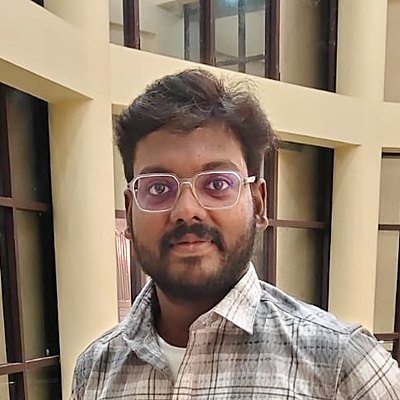
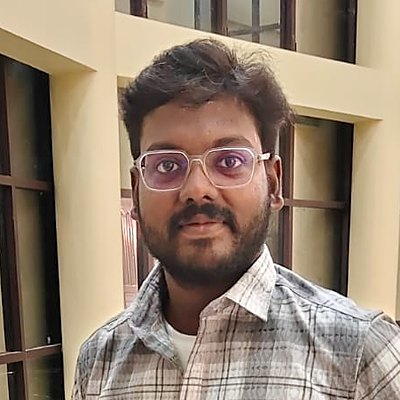
Re-centre Sivalingam's and Durai Praveen's photos; add TODO.md
Crops now centred on the detected face. TODO.md lists the open items to check later.

Claude-Session: https://claude.ai/code/session_012xGooYthkxzBd4MHZxLafW

diff --git a/index.html b/index.html
@@ -13,7 +13,7 @@
 <link rel="preconnect" href="https://fonts.googleapis.com">
 <link rel="preconnect" href="https://fonts.gstatic.com" crossorigin>
 <link href="https://fonts.googleapis.com/css2?family=Noto+Sans+Tamil:wght@400;600;700;800&display=swap" rel="stylesheet">
-<link rel="stylesheet" href="assets/css/style.css?v=20261124a">
+<link rel="stylesheet" href="assets/css/style.css?v=20261124b">
 </head>
 <body data-page="home">
 
@@ -110,9 +110,9 @@
   </div>
 </footer>
 
-<script src="assets/js/config.js?v=20261124a"></script>
-<script src="assets/js/panchang.js?v=20261124a"></script>
-<script src="assets/js/decor.js?v=20261124a"></script>
-<script src="assets/js/app.js?v=20261124a"></script>
+<script src="assets/js/config.js?v=20261124b"></script>
+<script src="assets/js/panchang.js?v=20261124b"></script>
+<script src="assets/js/decor.js?v=20261124b"></script>
+<script src="assets/js/app.js?v=20261124b"></script>
 </body>
 </html>

diff --git a/accounts.html b/accounts.html
@@ -10,7 +10,7 @@
 <link rel="preconnect" href="https://fonts.googleapis.com">
 <link rel="preconnect" href="https://fonts.gstatic.com" crossorigin>
 <link href="https://fonts.googleapis.com/css2?family=Noto+Sans+Tamil:wght@400;600;700;800&display=swap" rel="stylesheet">
-<link rel="stylesheet" href="assets/css/style.css?v=20261124a">
+<link rel="stylesheet" href="assets/css/style.css?v=20261124b">
 </head>
 <body data-page="accounts">
 
@@ -60,8 +60,8 @@
   </div>
 </footer>
 
-<script src="assets/js/config.js?v=20261124a"></script>
-<script src="assets/js/decor.js?v=20261124a"></script>
-<script src="assets/js/app.js?v=20261124a"></script>
+<script src="assets/js/config.js?v=20261124b"></script>
+<script src="assets/js/decor.js?v=20261124b"></script>
+<script src="assets/js/app.js?v=20261124b"></script>
 </body>
 </html>

diff --git a/contact.html b/contact.html
@@ -10,7 +10,7 @@
 <link rel="preconnect" href="https://fonts.googleapis.com">
 <link rel="preconnect" href="https://fonts.gstatic.com" crossorigin>
 <link href="https://fonts.googleapis.com/css2?family=Noto+Sans+Tamil:wght@400;600;700;800&display=swap" rel="stylesheet">
-<link rel="stylesheet" href="assets/css/style.css?v=20261124a">
+<link rel="stylesheet" href="assets/css/style.css?v=20261124b">
 </head>
 <body data-page="contact">
 
@@ -78,8 +78,8 @@
   </div>
 </footer>
 
-<script src="assets/js/config.js?v=20261124a"></script>
-<script src="assets/js/decor.js?v=20261124a"></script>
-<script src="assets/js/app.js?v=20261124a"></script>
+<script src="assets/js/config.js?v=20261124b"></script>
+<script src="assets/js/decor.js?v=20261124b"></script>
+<script src="assets/js/app.js?v=20261124b"></script>
 </body>
 </html>

diff --git a/members.html b/members.html
@@ -10,7 +10,7 @@
 <link rel="preconnect" href="https://fonts.googleapis.com">
 <link rel="preconnect" href="https://fonts.gstatic.com" crossorigin>
 <link href="https://fonts.googleapis.com/css2?family=Noto+Sans+Tamil:wght@400;600;700;800&display=swap" rel="stylesheet">
-<link rel="stylesheet" href="assets/css/style.css?v=20261124a">
+<link rel="stylesheet" href="assets/css/style.css?v=20261124b">
 </head>
 <body data-page="members">
 
@@ -56,8 +56,8 @@
   </div>
 </footer>
 
-<script src="assets/js/config.js?v=20261124a"></script>
-<script src="assets/js/decor.js?v=20261124a"></script>
-<script src="assets/js/app.js?v=20261124a"></script>
+<script src="assets/js/config.js?v=20261124b"></script>
+<script src="assets/js/decor.js?v=20261124b"></script>
+<script src="assets/js/app.js?v=20261124b"></script>
 </body>
 </html>

diff --git a/assets/js/config.js b/assets/js/config.js
@@ -18,7 +18,7 @@ window.VI_CONFIG = {
      e.g. photos/VEL-001.jpg. No photo = the member's initials are shown. */
   photoFolder: 'photos/',
   photoExt: '.jpg',
-  photoVersion: 7,          // raise by 1 after replacing a photo, so browsers fetch the new one
+  photoVersion: 8,          // raise by 1 after replacing a photo, so browsers fetch the new one
 
   /* Codes to leave off the members wall, e.g. ['VEL-014'].
      Their payments still count in the accounts. */

diff --git a/TODO.md b/TODO.md
@@ -1,0 +1,19 @@
+# To do
+
+Open items, to check later. Tick them off (`[x]`) or tell Claude when done.
+
+## Accounts
+- [ ] **June 2026, ₹2,050 by member.** The treasurer's statement gives June's Vel fund as ₹2,150; only VEL-015 (₹100) is named. The other ₹2,050 is one row ("other members") in the `Accounts` tab, row 116. Ask Sivaganesan who paid what, then replace that row with one row per member (same total).
+- [ ] **VEL-FUND-053 date.** VEL-001's ₹250 is dated 22-12-2025 but sits before payments of 03-12-2025 in the old record. Was it 02-12-2025? (`Accounts` tab, row 59.)
+- [ ] **Duplicate receipt number.** VEL-FUND-071 was used twice (VEL-004 and VEL-007, both 23-01-2026). Only matters for receipts already sent.
+
+## Help list
+- [ ] **26-12-2025:** 2 students? (The bill has two school bags and two pairs of shoes.)
+- [ ] **15-11-2026 (Kanda Sashti):** 1 student? (The message says "அடியவர்களுக்கு", plural.) Fix the `Students` number in the `Help` tab if needed.
+
+## Members
+- [ ] **Esakki Selvam (VEL-008):** photo still missing.
+- [ ] **VEL-017:** to fill the membership form; once his code is in column A of the form responses sheet he appears on the website automatically.
+
+## Website
+- [ ] **Live connection check.** At the bottom of the home page it should say "எல்லா விவரங்களும் Google Sheet-இலிருந்து நேரடியாக வருகின்றன" (English: "Everything here comes straight from our Google Sheet"). If it says the details come from a saved copy, the live link is not working.
